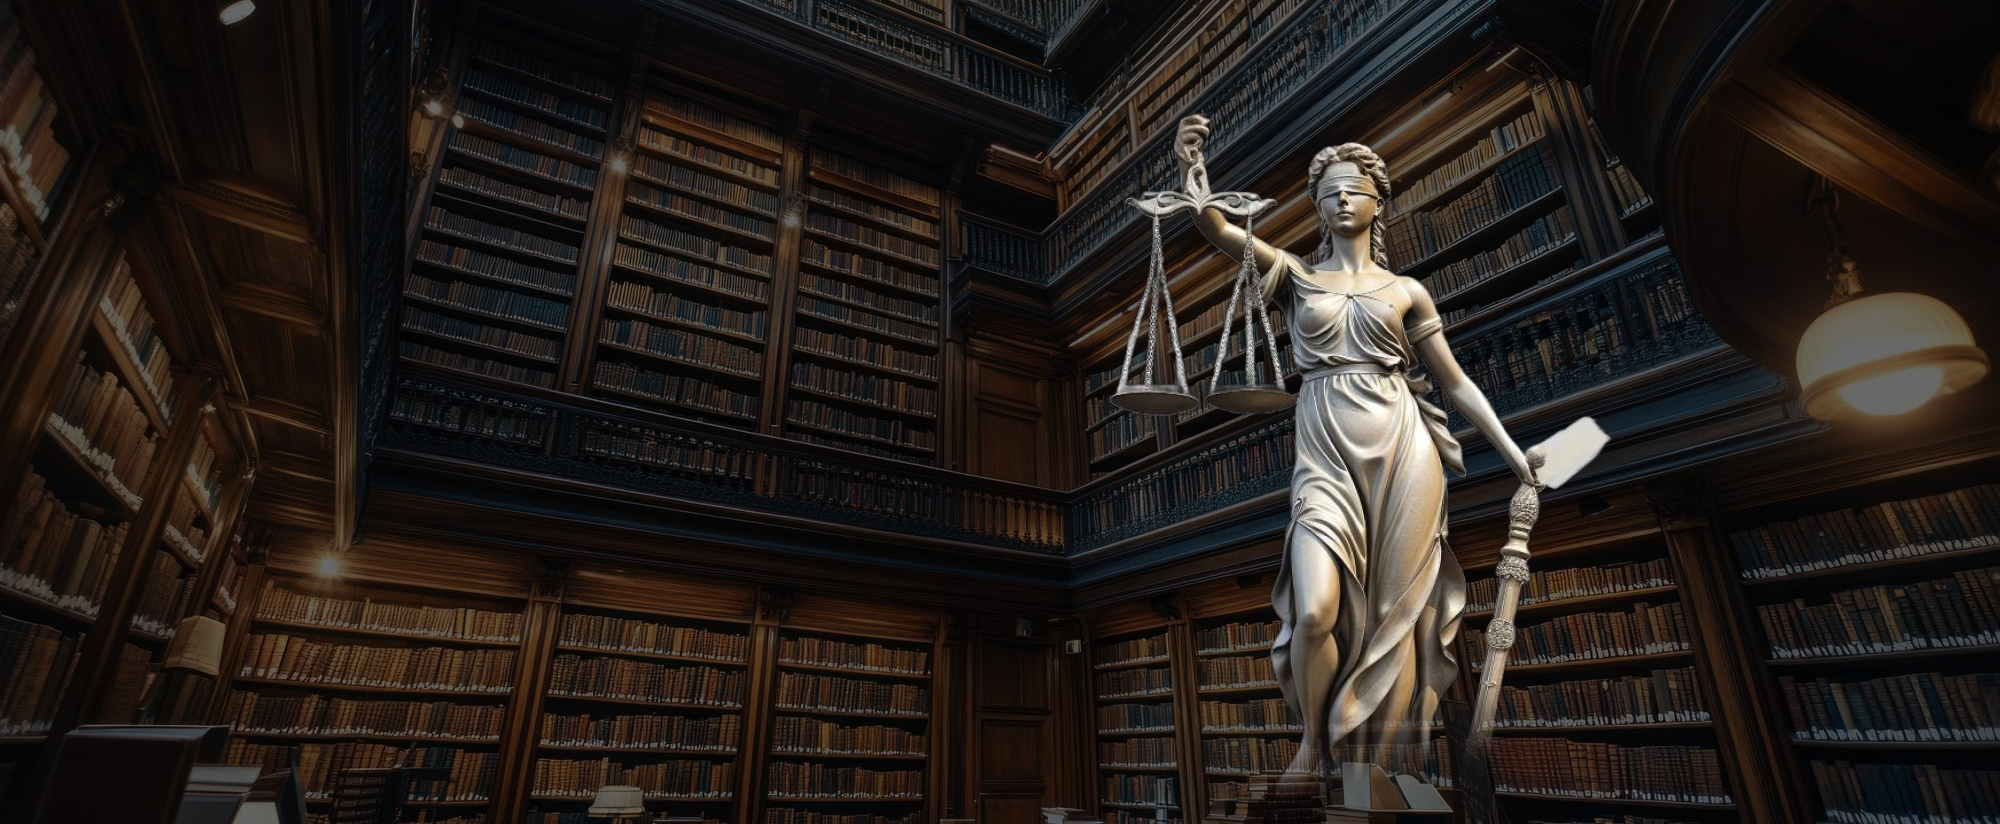
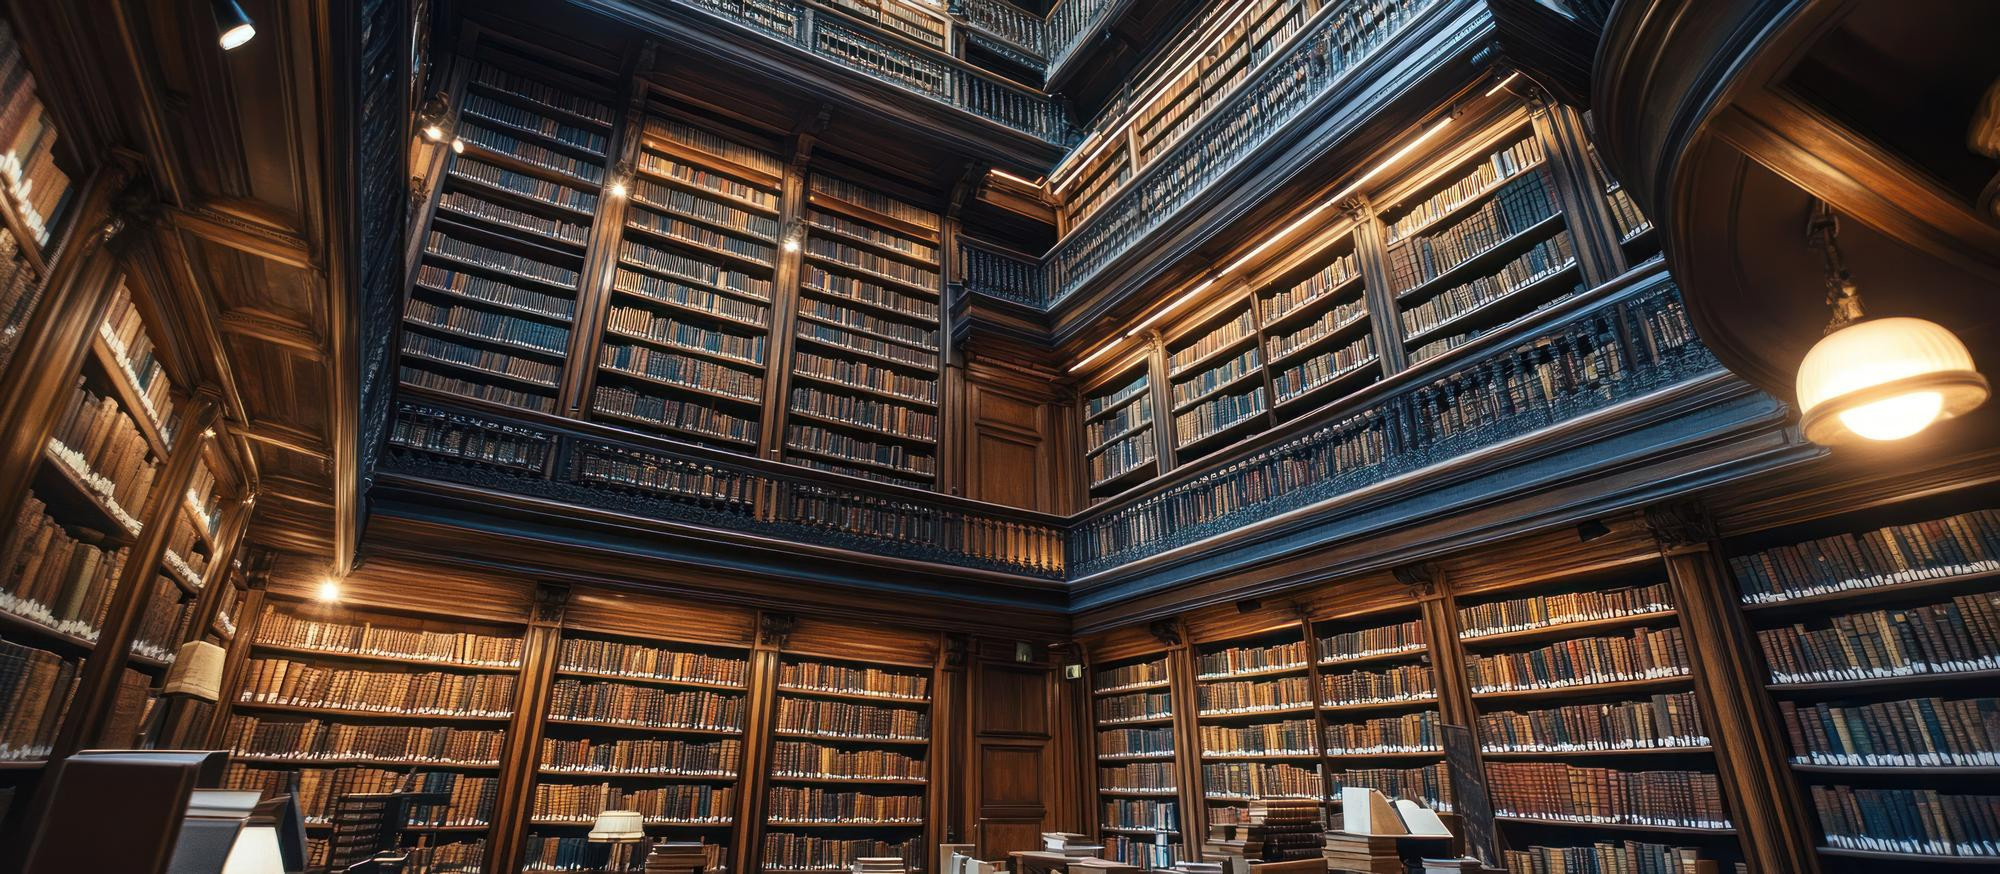
fix: Insere imagens novas

diff --git a/src/components/sectionElements/hero/Influencer.jsx b/src/components/sectionElements/hero/Influencer.jsx
@@ -20,9 +20,11 @@ export default function Influencer({ appDownloadButtons }) {
           backgroundImage: `url(${content.texts.hero.backgroundPerson})`,
         }}
       >
-        <div className="relative z-10 flex w-full bg-colorBlack bg-opacity-0 items-left">
+        <div className="absolute inset-0 bg-black bg-opacity-70 z-0" />
+
+        <div className="relative z-10 flex w-full bg-darker bg-opacity-0 items-left">
           <div className="w-full text-secondary justify-evenly">
-            <div className="h-[100px] desktop1:h-[140px]" />
+            <div className="h-[130px] desktop1:h-[140px]" />
             <div className="flex flex-col-reverse gap-[10px] desktop1:flex-row desktop1:justify-between mx-auto w-[90%] max-w-[1215px] items-center pb-[64px] pt-[40px] desktop1:pt-[0px] desktop1:pb-[0px]">
               <div className="flex  flex-col w-full desktop1:w-[50%] desktop1:mr-[20px]  ">
                 <MotionDivDownToUp>
@@ -33,7 +35,7 @@ export default function Influencer({ appDownloadButtons }) {
                   </div>
                 </MotionDivDownToUp>
                 <MotionDivDownToUp>
-                  <div className="text-lighter flex justify-center desktop1:justify-start font-bold leading-[40px] phone3:leading-[42px] tablet1:leading-[70px] desktop1:leading-[60px] desktop2:leading-[65px] text-center desktop1:text-left text-title4 phone2:text-title5 phone3:text-title5 tablet1:text-title7">
+                  <div className="text-lighter flex justify-center desktop1:justify-start font-bold leading-[47px] phone3:leading-[42px] tablet1:leading-[70px] desktop1:leading-[60px] desktop2:leading-[65px] text-center desktop1:text-left text-title4 phone2:text-title5 phone3:text-title5 tablet1:text-title7">
                     <h1 className="">{content.texts.hero.title}</h1>
                   </div>
                 </MotionDivDownToUp>
@@ -102,7 +104,7 @@ export default function Influencer({ appDownloadButtons }) {
                   )}
                 </div>
               </div>
-              <div className="flex justify-center w-full tablet1:w-full desktop1:w-[35%] ">
+              {/* <div className="flex justify-center w-full tablet1:w-full desktop1:w-[35%] ">
                 <MotionDivRightToLeft className="relative flex items-end justify-center w-full desktop2:justify-end">
                   <img
                     src={content.texts.hero.heroImgPhone}
@@ -110,7 +112,7 @@ export default function Influencer({ appDownloadButtons }) {
                     alt="Foto do advogado"
                   ></img>
                 </MotionDivRightToLeft>
-              </div>
+              </div> */}
             </div>
           </div>
         </div>
@@ -125,34 +127,35 @@ export default function Influencer({ appDownloadButtons }) {
       >
         <SectionArea paddingTopAndBottom={false} className="relative">
           <div className="absolute inset-0 w-[65%] h-full bg-gradient-to-r from-darker to-transparent" />
+          <div className="absolute inset-0 bg-black bg-opacity-70 z-0" />
 
           <SectionWrapper>
             <div className="relative z-10 flex w-full items-left pt-[36px] desktop1:py-[90px] desktop2:pb-[90px] ">
               <div className="w-full text-secondary ">
                 <div className="h-[100px] desktop1:h-[140px]" />
                 <div className="flex flex-col-reverse gap-[40px] desktop1:flex-row desktop1:justify-between w-full items-center pb-[64px] pt-[40px] desktop1:pt-[0px] desktop1:pb-[0px]">
-                  <div className="flex flex-col w-full desktop1:w-[50%] ">
+                  <div className="flex flex-col w-full desktop1:w-full ">
                     <MotionDivDownToUp>
-                      <div className="flex justify-center w-auto text-center desktop1:justify-start desktop1:text-left font-secondFont text-paragraph4">
-                        <p className="mb-[16px] bg-primary text-colorBlack bg-opacity-100 rounded-md px-[16px] py-[6px] inline-block text-paragraph2">
+                      <div className="flex justify-center w-auto text-center desktop1:justify-center desktop1:text-left font-secondFont text-paragraph4">
+                        <p className="mb-[16px] bg-primary bg-opacity-100 rounded-md px-[16px] py-[6px] inline-block text-paragraph2">
                           {content.texts.hero.miniTag}
                         </p>
                       </div>
                     </MotionDivDownToUp>
                     <MotionDivDownToUp>
-                      <div className="text-lighter flex justify-center desktop1:justify-start font-bold leading-[40px] phone3:leading-[42px] tablet1:leading-[70px] desktop1:leading-[60px] desktop2:leading-[65px] text-center desktop1:text-left text-title4 phone2:text-title5 phone3:text-title5 tablet1:text-title7">
+                      <div className="text-lighter w-full flex justify-center desktop1:justify-center font-bold leading-[40px] phone3:leading-[42px] tablet1:leading-[70px] desktop1:leading-[60px] desktop2:leading-[65px] text-center desktop1:text-center text-title4 phone2:text-title5 phone3:text-title5 tablet1:text-title7">
                         <h1 className="">{content.texts.hero.title}</h1>
                       </div>
                     </MotionDivDownToUp>
                     <MotionDivDownToUp>
-                      <div className="flex justify-center w-full text-center desktop1:text-left desktop1:justify-start font-secondFont text-paragraph4 phone3:text-paragraph5">
+                      <div className="flex justify-center w-full text-center desktop1:text-left desktop1:justify-center font-secondFont text-paragraph4 phone3:text-paragraph5">
                         <p className="text-lighter mb-[32px] ">
                           {content.texts.hero.subtitle}
                         </p>
                       </div>
                     </MotionDivDownToUp>
                     <div className="w-full phone2:w-full tablet2:w-auto">
-                      <div className="flex justify-center w-full desktop1:justify-start mb-[32px]">
+                      <div className="flex justify-center w-full desktop1:justify-center mb-[32px]">
                         <Button
                           aria-label={content.texts.hero.ctaButtonAriaLabel}
                           label={content.texts.hero.ctaButtonText}
@@ -162,7 +165,7 @@ export default function Influencer({ appDownloadButtons }) {
                         />
                       </div>
                       <MotionDivDownToUp>
-                        <div className="flex justify-center desktop1:justify-start">
+                        <div className="flex justify-center desktop1:justify-center">
                           <div className="flex flex-col items-center desktop1:flex-row text-primary">
                             {content.texts.hero.obsHero.icon}
                             <p className="text-lighter  ml-[10px] text-start mt-[12px] desktop1:mt-0">

diff --git a/src/content/content.jsx b/src/content/content.jsx
@@ -3,7 +3,7 @@ import heroImgPhone from "../assets/imgs/hero/personImg.webp";
 import heroImgDesktop from "../assets/imgs/hero/bgHeroInfluencer.webp";
 import bgHeroImg from "../assets/imgs/hero/bgHeroInfluencer.webp";
 import heroDefaultImg from "../assets/imgs/hero/lawHero.jpg";
-import backgroundPersonMobile from "../assets/imgs/hero/bgHeroMobile.webp";
+import backgroundPersonMobile from "../assets/imgs/hero/bgHeroMobile.jpg";
 
 import imgFeatures from "../assets/imgs/features/imgServices.jpg";
 import imgDivisor from "../assets/imgs/features/imgDivisor.jpg";
